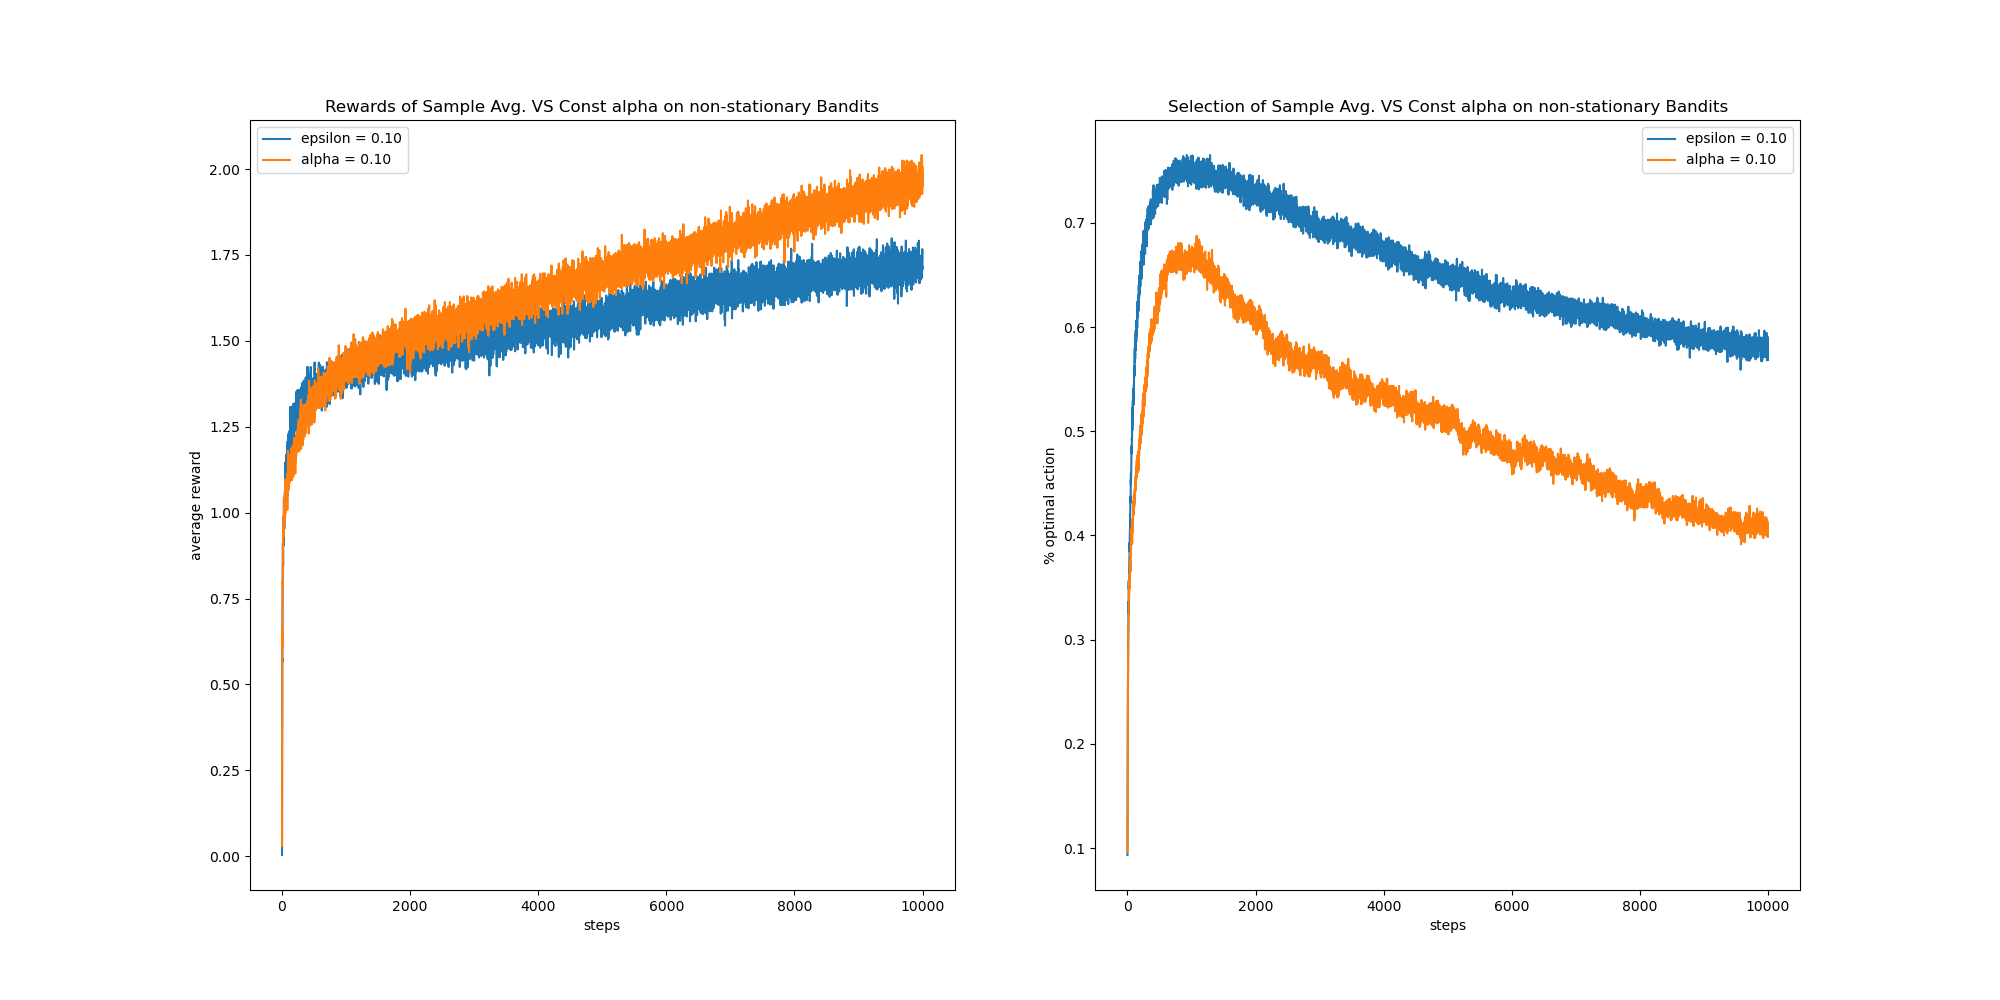
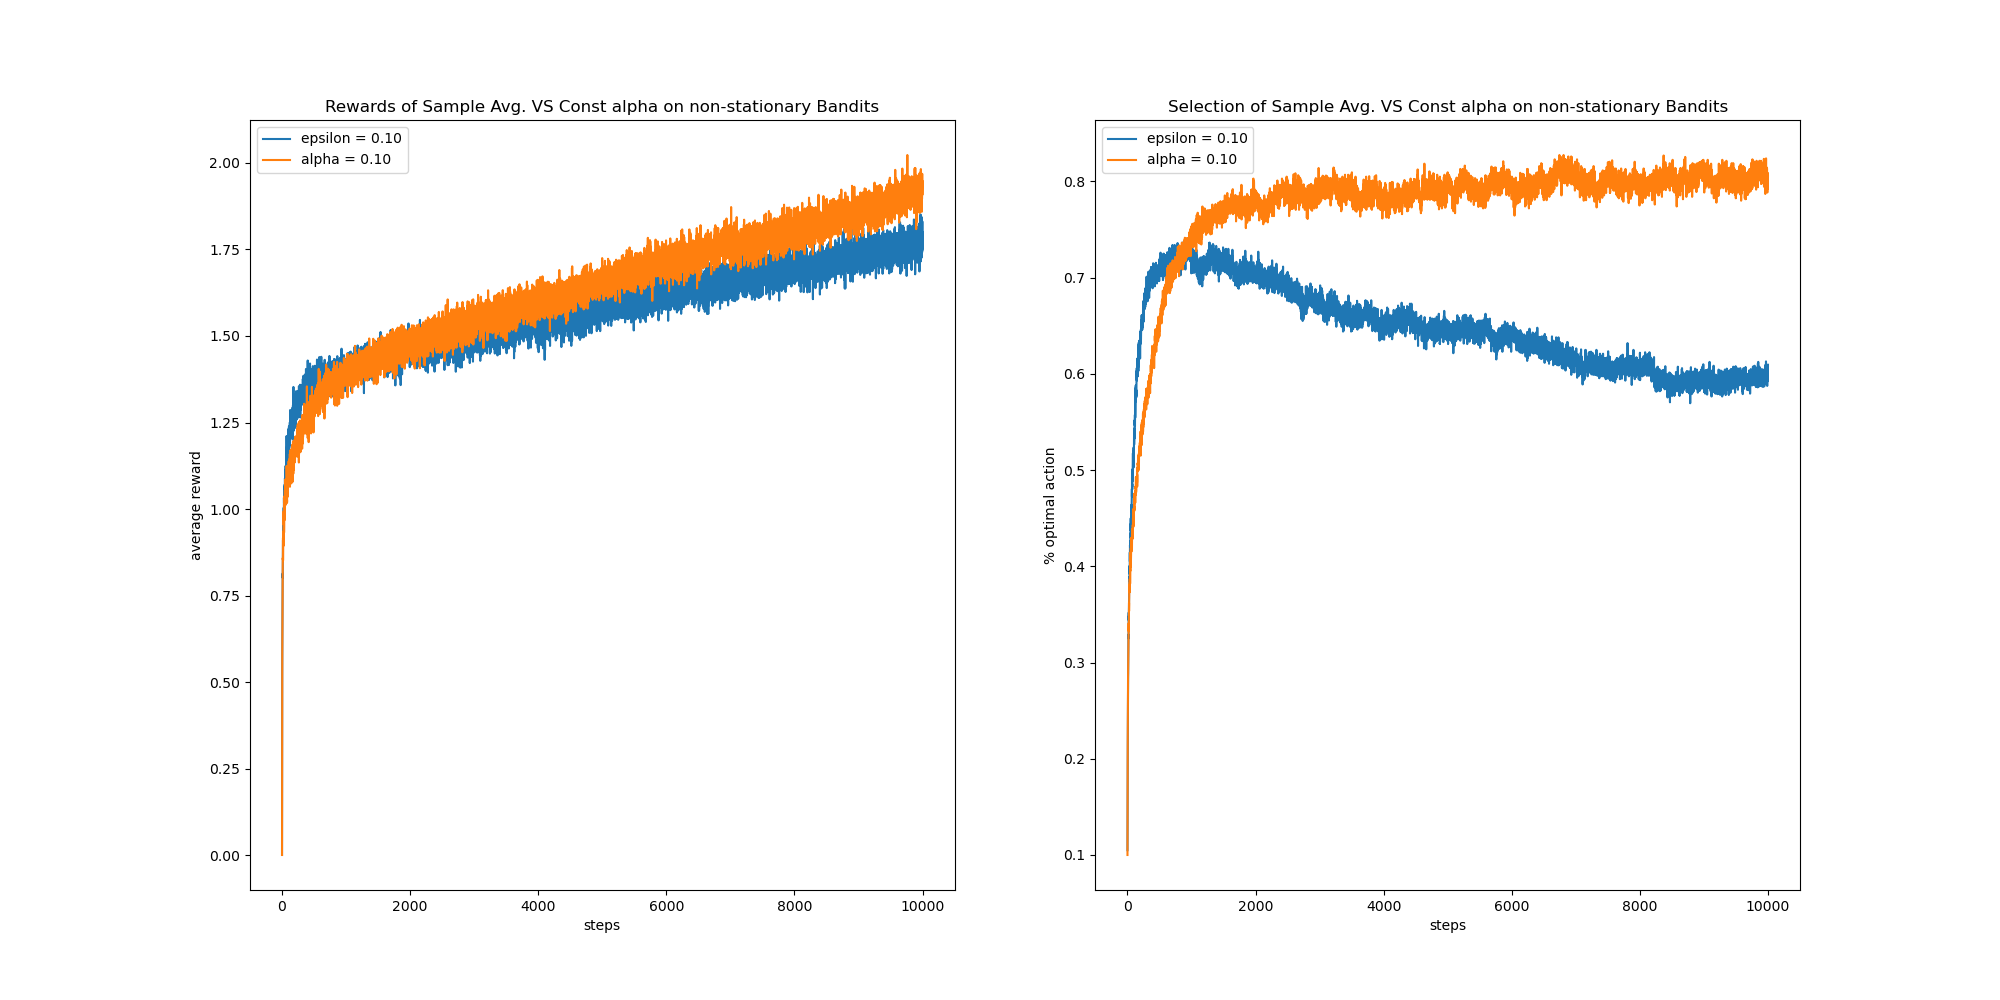
bug fix and redo experiments for ex2.5

diff --git a/chapter2/exercise_2_5.py b/chapter2/exercise_2_5.py
@@ -1,6 +1,8 @@
 #######################################################################
 # Copyright (C)                                                       #
 # 2018 - 2020 Bryce Chen (brycechen1849@gmail.com)                    #
+# Date created: 2020/09/27                                            #
+# Description : Simulation code for exercise 2.5                    #
 # Permission given to modify the code as long as you keep this        #
 # declaration at the top                                              #
 #######################################################################
@@ -41,15 +43,14 @@ class NonstationaryBandit:
     def reset(self):
         # np.random.rand (normal distribution on a ndarray)
         # Parameters ----------
-        #             d0, d1, ..., dn : int, optional
-        #                 The dimensions of the returned array, must be non-negative.
-        #                 If no argument is given a single Python float is returned
+        # d0, d1, ..., dn : int, optional
+        #   The dimensions of the returned array, must be non-negative.
+        #   If no argument is given a single Python float is returned
         self.q_true = np.random.randn(self.k) + self.true_reward
         # estimation for each action
         self.q_estimation = np.zeros(self.k) + self.initial
         # number of chosen times for each action
         self.action_count = np.zeros(self.k)
-        self.best_action = np.argmax(self.q_true)
         self.time = 0
 
     # Get an action for this bandit
@@ -81,6 +82,7 @@ class NonstationaryBandit:
 
         #  Nonstationary Bandit
         self.q_true += np.random.normal(loc=0, scale=0.01, size=(self.k,))
+        self.best_action = np.argmax(self.q_true)
 
         # generate the reward under N(real reward, 1)
         reward = np.random.randn() + self.q_true[action]
@@ -126,6 +128,9 @@ def simulate(runs, time, bandits):
     mean_rewards = rewards.mean(axis=1)
     # It's recommend that we save raw results of each parameter setting of the experiment:
     # + in case of being unexpectedly interrupted during the experiments, it would be possible to resume the work
+    np.save("../data/exercise_2_5_Non-stationary_B.npy", mean_best_action_counts)
+    np.save("../data/exercise_2_5_Non-stationary_R.npy", mean_rewards)
+
     return mean_best_action_counts, mean_rewards
 
 
@@ -162,4 +167,3 @@ def exercise_2_2(runs=2000, time=10000):
 
 if __name__ == '__main__':
     exercise_2_2()
-    # print("SIMR time eplased: ", end_time - start_time)

diff --git a/chapter2/ten_armed_testbed.py b/chapter2/ten_armed_testbed.py
@@ -126,8 +126,8 @@ def simulate(runs, time, bandits):
     mean_rewards = rewards.mean(axis=1)
     # It's recommend that we save raw results of each parameter setting of the experiment:
     # + in case of being unexpectedly interrupted during the experiments, it would be possible to resume the work
-    np.save("../data/exercise_2_2_Non-stationary_B.npy", mean_best_action_counts)
-    np.save("../data/exercise_2_2_Non-stationary_R.npy", mean_rewards)
+    np.save("../data/exercise_2_2_B.npy", mean_best_action_counts)
+    np.save("../data/exercise_2_2_R.npy", mean_rewards)
 
     return mean_best_action_counts, mean_rewards
 

diff --git a/readme.md b/readme.md
@@ -32,6 +32,7 @@ Prepare plots like Figure 2.2 for an action-value method using sample averages, 
     ```python  
     # Nonstationary Bandit    
     self.q_true += np.random.normal(loc=0, scale=0.01, size=(self.k,))
+    self.best_action = np.argmax(self.q_true)
     ```   
     The constant step-size method outperformed the sample average method in terms of average return.                                                                                                                                                                                                                                                                                                                                                                                                                                                                                                                                                                                                                                                                                                                                                                                                                    
                                                                                                                                                                                                                                                                                                                                                                                                                                                                                                                                                                                                                                                                                                                                                                                                                   

diff --git a/exercise_answers.md b/exercise_answers.md
@@ -56,6 +56,7 @@ Prepare plots like Figure 2.2 for an action-value method using sample averages, 
     ```python  
     # Nonstationary Bandit    
     self.q_true += np.random.normal(loc=0, scale=0.01, size=(self.k,))
+    self.best_action = np.argmax(self.q_true)
     ```   
     constant step size method outperformed the sample average method in terms of average return.  
     
@@ -66,7 +67,7 @@ Prepare plots like Figure 2.2 for an action-value method using sample averages, 
     Instead of, in the original code, going all the way through a complete run one after another, 
     this version simultaneously operates multi-runs at each iteration, as if those runs are in parallel.  
     This allowed us to utilize the power of the optimized vector computation tools in numpy, and It actually
-    get around 8x faster than the original one version.
+    get around 8x faster than the first code implementation.
     
     ![exercise 2.5 SIMR](images/exercise_2_5_SIMR.png)
 
